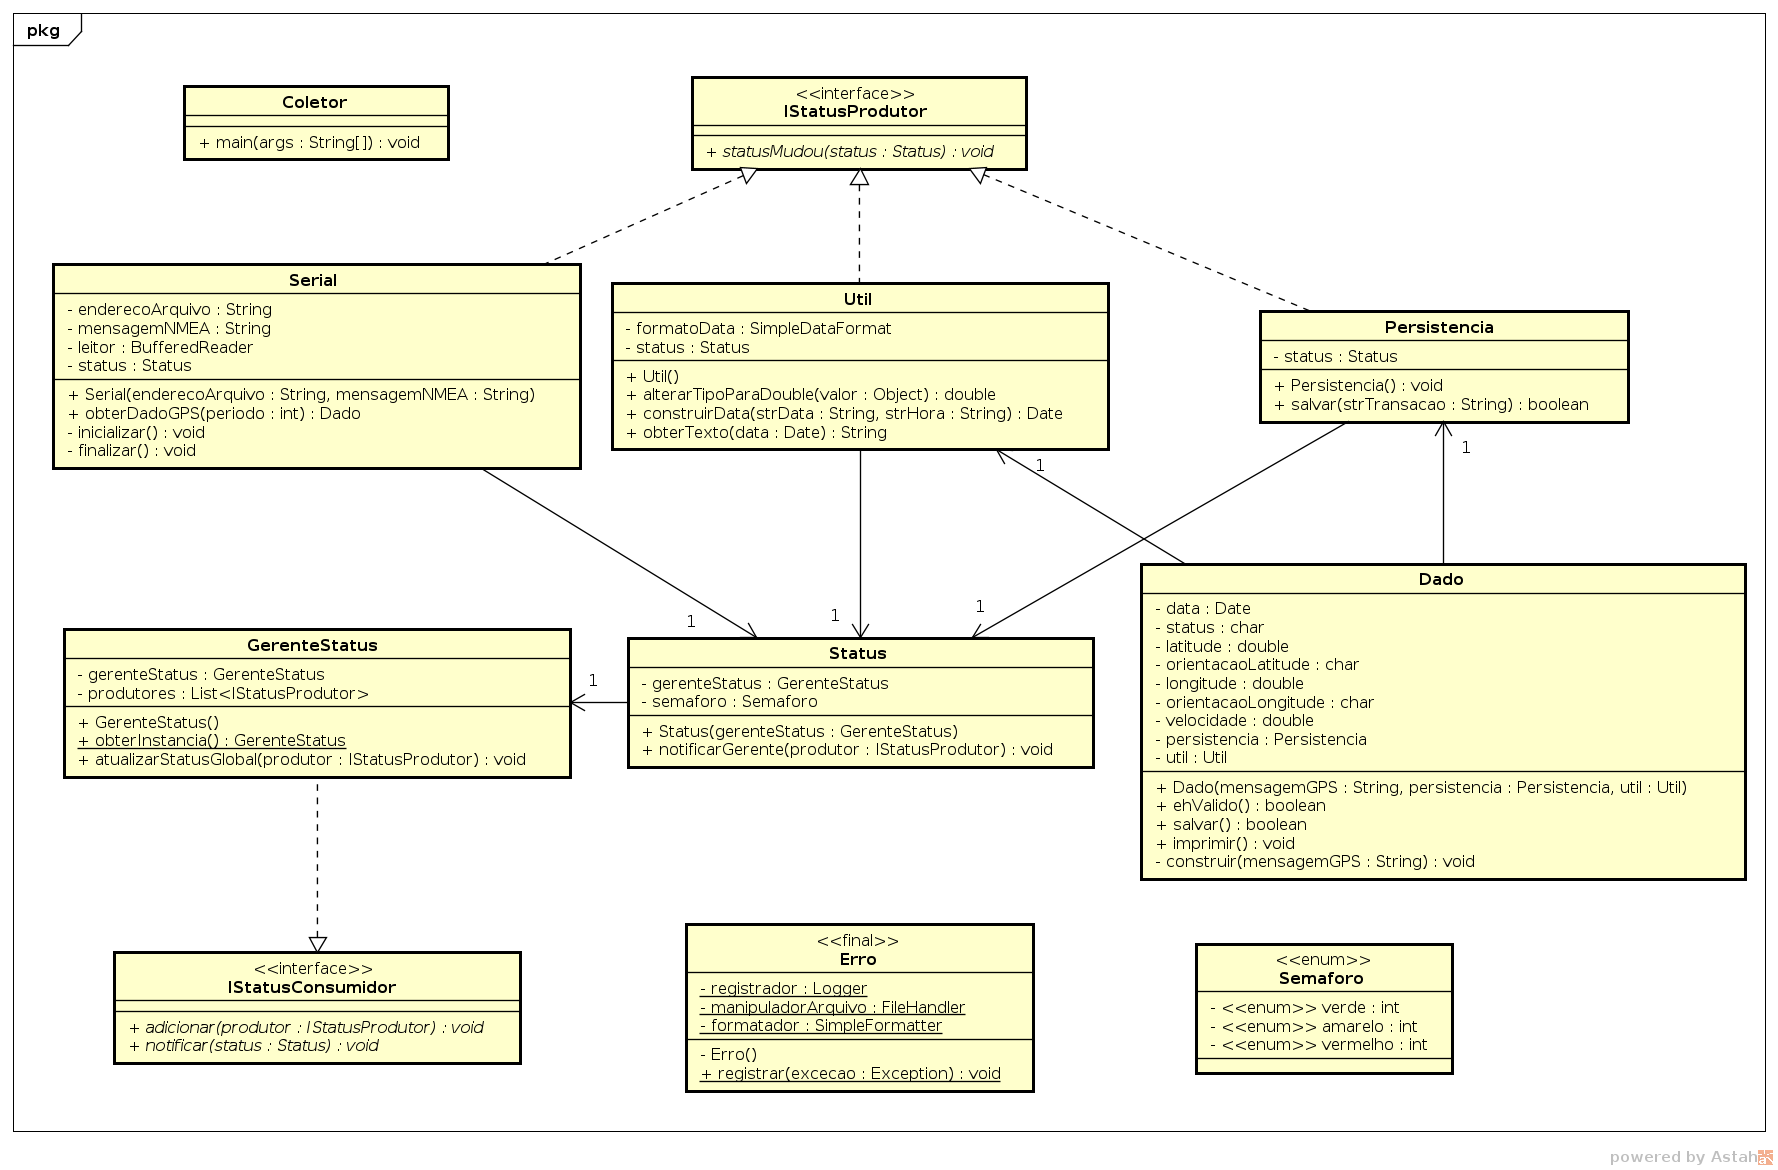
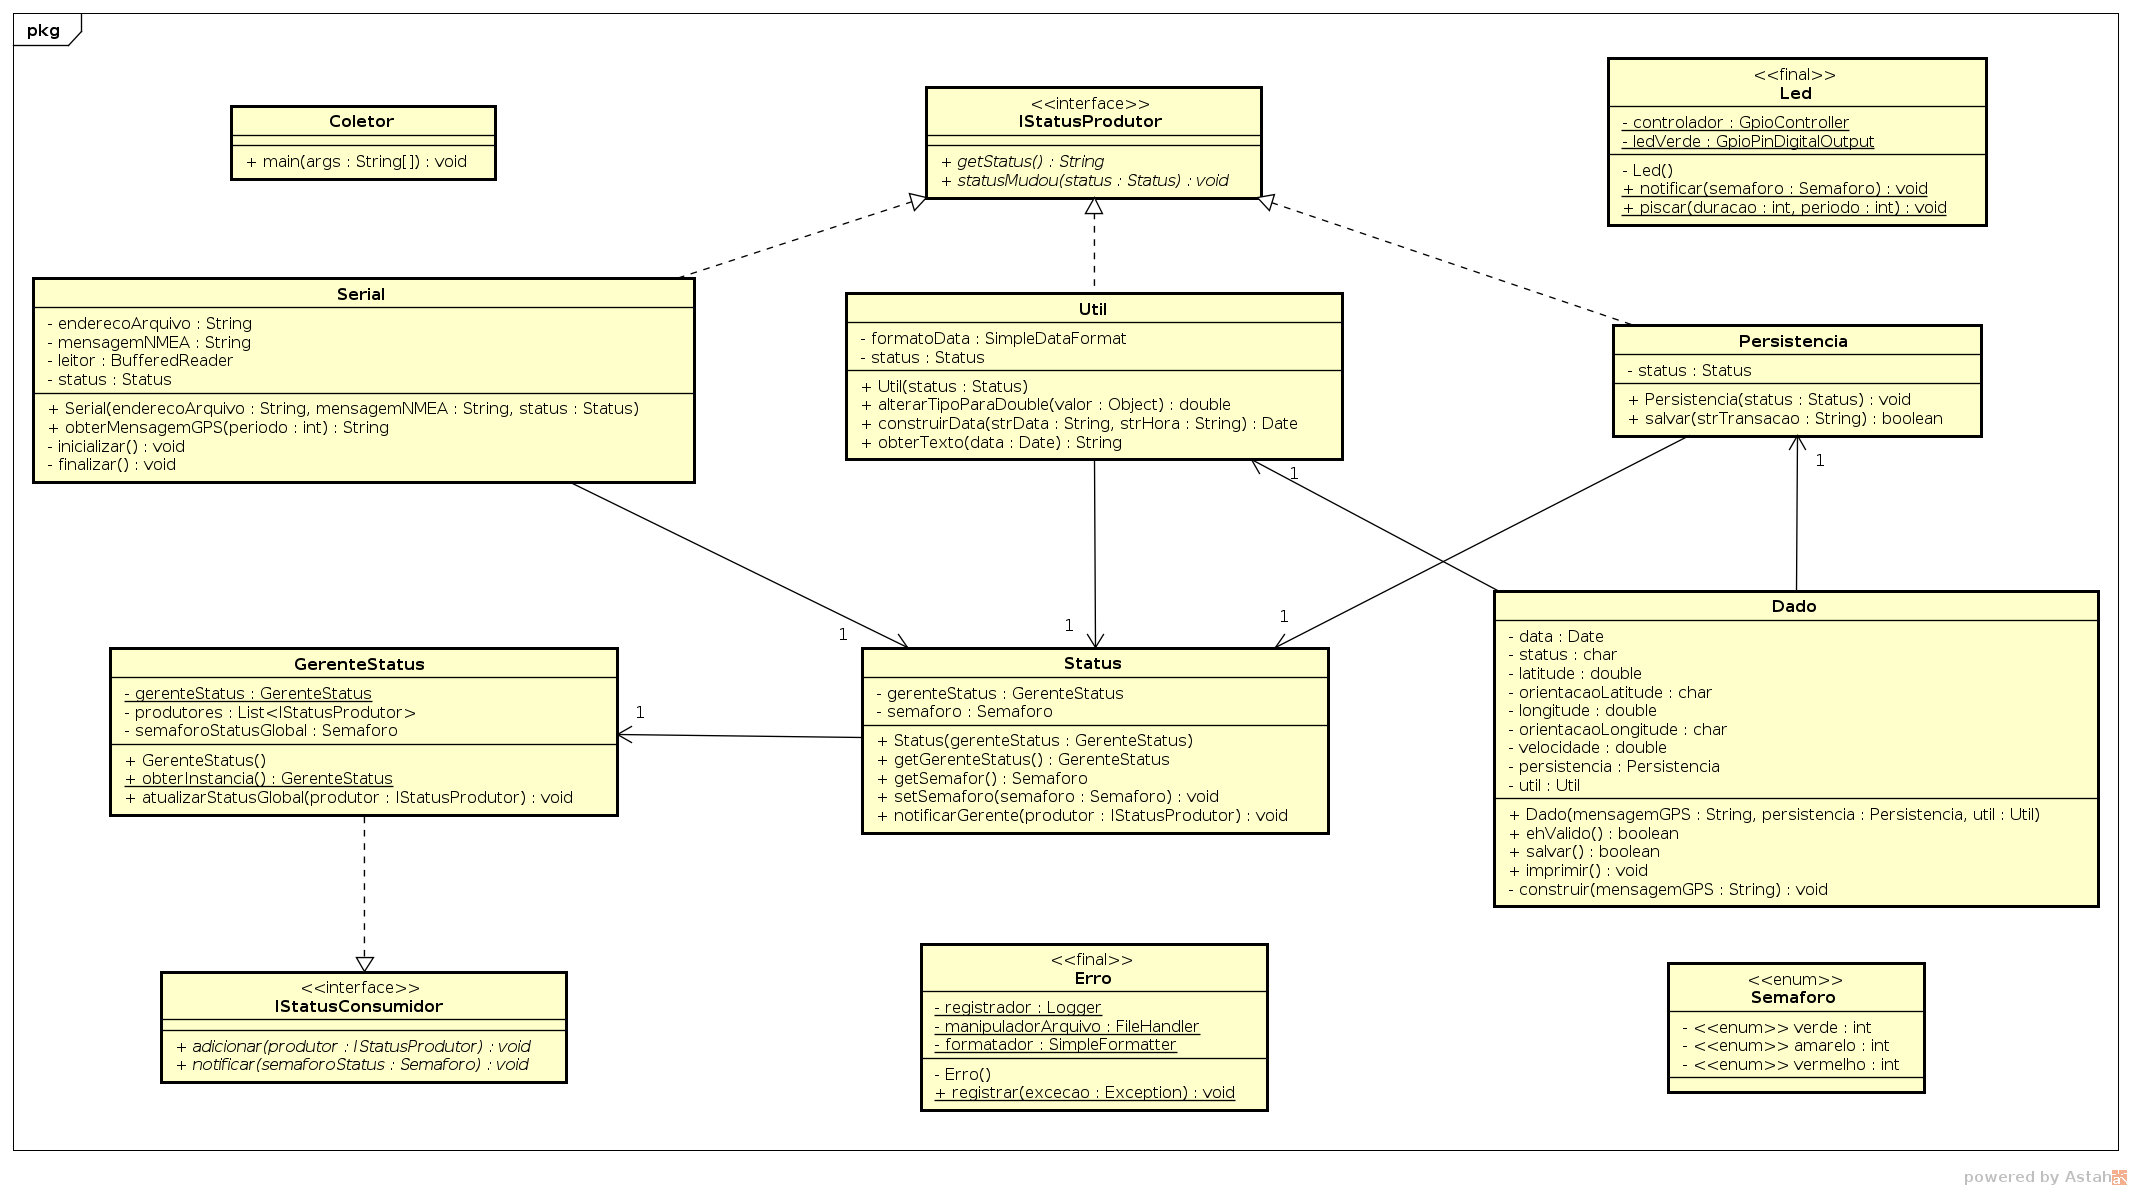
Finalização Módulo 1 - parte 1

diff --git a/imp/coletor_gps/Led.java b/imp/coletor_gps/Led.java
@@ -16,6 +16,10 @@ final class Led
 		ledVerde = controlador.provisionDigitalOutputPin(RaspiPin.GPIO_02);
 	}
 
+	private Led()
+	{		
+	}
+
 	public static void notificar(Status.Semaforo semaforoStatus)
 	{
 		switch (semaforoStatus)
